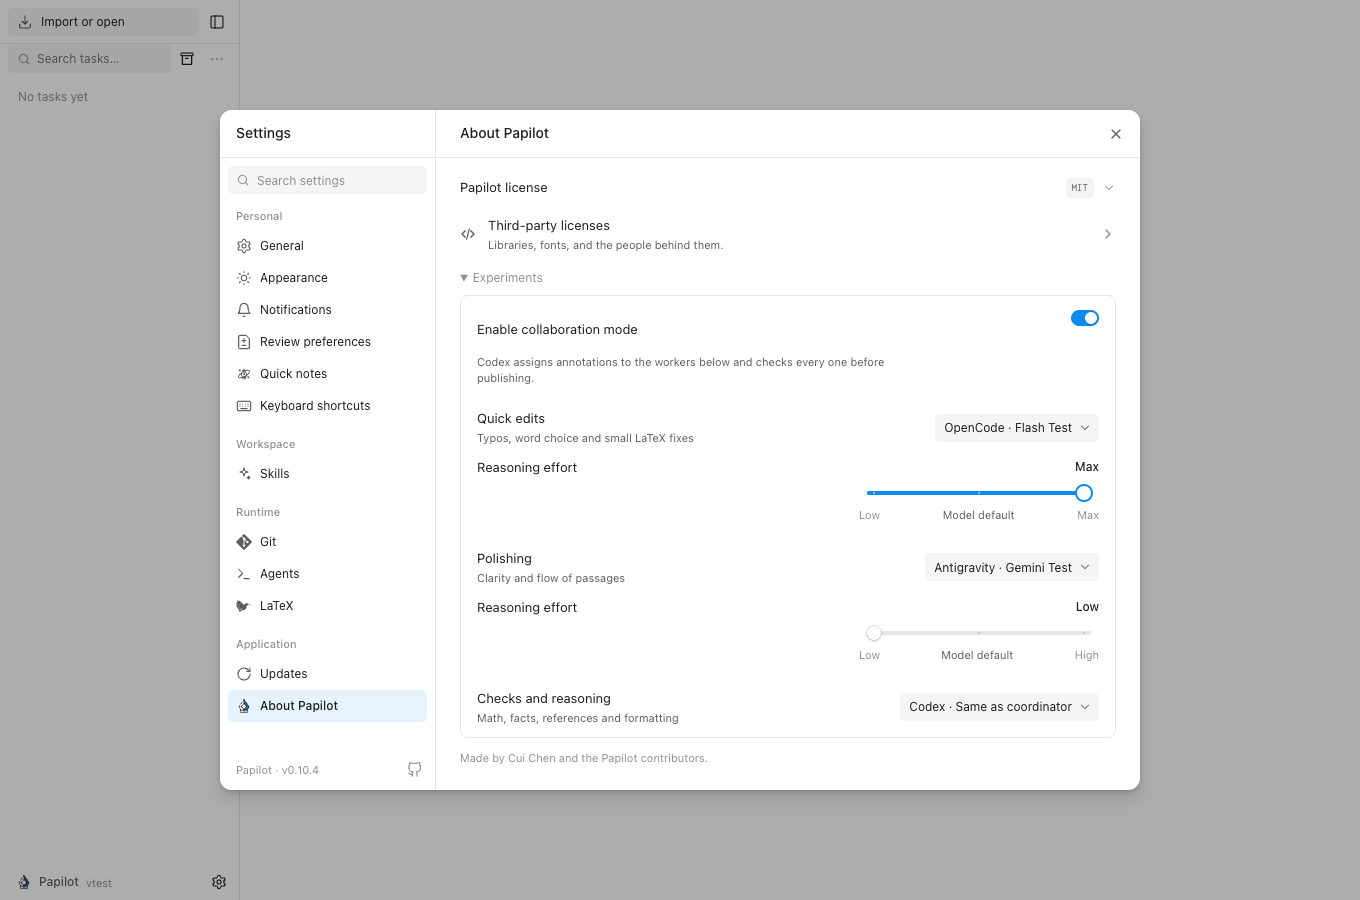
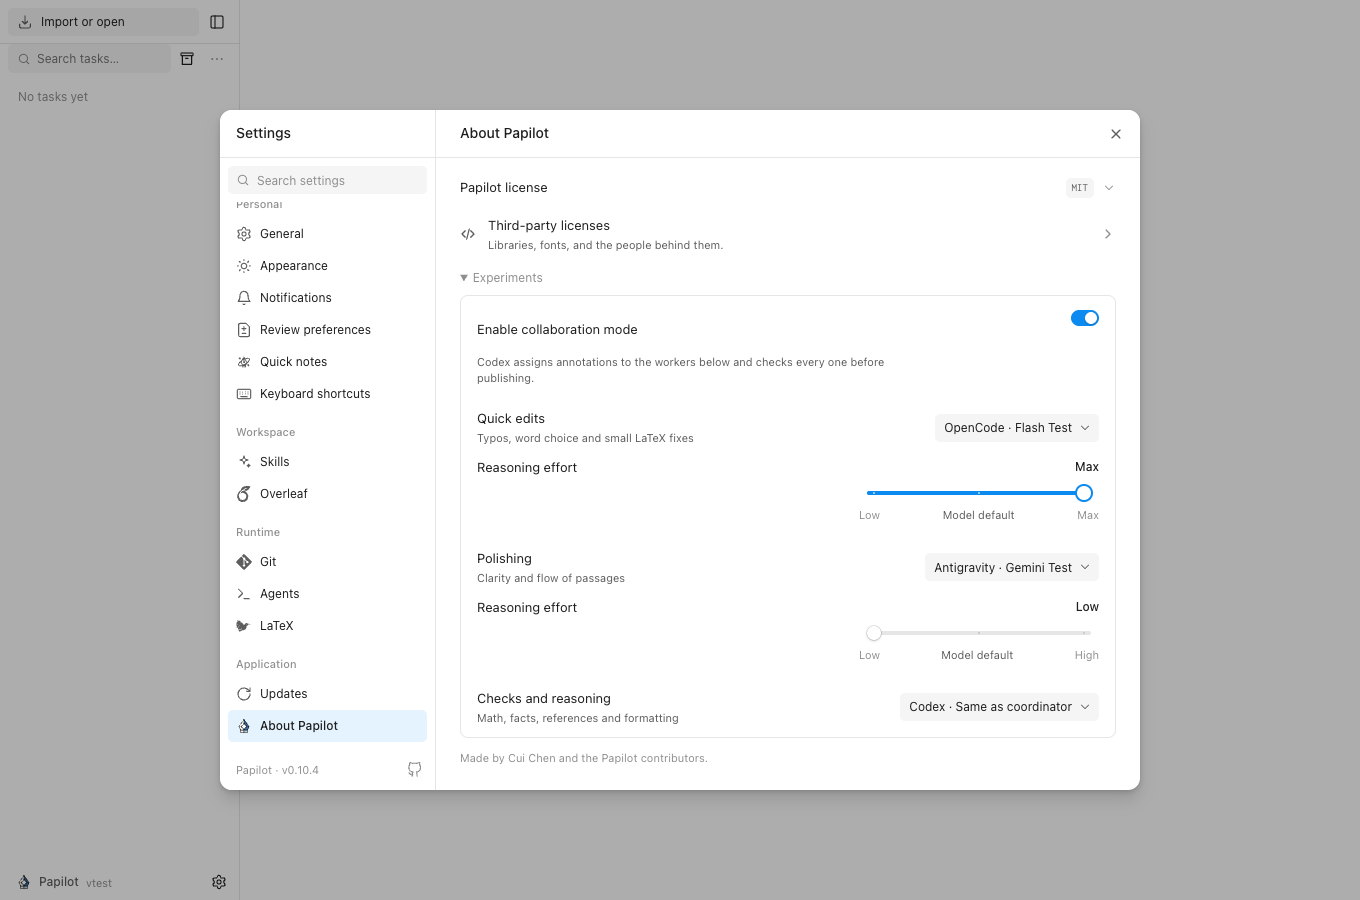
Keep settings headings visible while categories scroll

Changed region(s): [[0.1544, 0.2178, 0.3397, 0.84]]

diff --git a/src/web/settings.css b/src/web/settings.css
@@ -6,13 +6,14 @@
    outside the page flow: 1px rule, 8px corners. */
 .modal.settings-dialog{--settings-gutter:24px;--settings-card-padding:16px;--settings-card-radius:8px;--settings-rule:linear-gradient(var(--line),var(--line)) 1 0 0/1px 0 0/0 var(--settings-gutter);display:grid;grid-template-columns:216px minmax(0,1fr);width:920px;height:min(680px,92dvh);padding:0;border:0;border-radius:var(--r-lg);background:var(--raised);overflow:hidden}
 .settings-dialog>.modal-close{z-index:2;top:10px;right:10px}
-.settings-sidebar{display:flex;flex-direction:column;min-height:0;min-width:0;padding:0 8px 8px;background:var(--raised);border-right:1px solid var(--line);overflow:auto}
+.settings-sidebar{display:flex;flex-direction:column;min-height:0;min-width:0;padding:0 8px 8px;background:var(--raised);border-right:1px solid var(--line);overflow:hidden}
 .settings-sidebar .settings-sidebar-title{display:flex;align-items:center;flex:none;min-height:48px;margin:0 -8px 8px;padding:0 16px;border-bottom:1px solid var(--line);font:500 14px/1.3 var(--sans);letter-spacing:0}
-.settings-search{position:relative;display:block;margin:0 0 8px;color:var(--text-3)}
+.settings-search{position:relative;display:block;flex:none;margin:0 0 8px;color:var(--text-3)}
 .settings-search>svg{position:absolute;left:8px;top:7px;width:14px;height:14px;pointer-events:none}
 .settings-dialog .settings-search input{height:28px;margin:0;padding:0 8px 0 28px;border:1px solid transparent;border-radius:var(--r);background:var(--bg-muted);box-shadow:none;font-size:12px}
 .settings-dialog .settings-search input:hover{border-color:var(--line)}
 .settings-dialog .settings-search input:focus{border-color:var(--accent);background:var(--bg);box-shadow:none}
+.settings-categories{flex:1;min-height:0;overflow:auto;overscroll-behavior:contain}
 .settings-category-group{margin:0 0 8px}
 .settings-category-group h3{display:flex;align-items:center;min-height:28px;margin:0;padding:0 8px;color:var(--text-3);font-size:11px;font-weight:500}
 .settings-category{display:flex;align-items:center;gap:8px;width:100%;min-height:32px;padding:0 8px;border-radius:var(--r);text-align:left;font-size:12px;line-height:1.3;color:var(--text)}
@@ -24,7 +25,7 @@
 .settings-category[aria-current=page]{background:var(--accent-soft);font-weight:500}
 .settings-category[aria-current=page]>svg,.settings-category[aria-current=page]>.brand-icon{color:var(--accent);--brand-color:var(--accent)}
 .settings-search-empty{margin:8px;font-size:12px;color:var(--text-3)}
-.settings-sidebar-bottom{margin-top:auto;padding-top:8px}
+.settings-sidebar-bottom{flex:none;margin-top:auto;padding-top:8px}
 .settings-footer{display:flex;align-items:center;justify-content:space-between;gap:8px;padding:0 0 0 8px;font-size:11px;color:var(--text-3)}
 .settings-footer a{display:inline-flex;align-items:center;justify-content:center;width:24px;height:24px;text-decoration:none;border-radius:var(--r)}
 .settings-footer a:hover{background:var(--bg-muted);color:var(--text)}

diff --git a/CHANGELOG.md b/CHANGELOG.md
@@ -44,7 +44,7 @@ Notable changes to Papilot, newest first. The format follows [Keep a Changelog](
 ### Fixed
 
 - Move keyboard focus into a skill after its details finish rendering, so opening it on a busy device does not leave focus on a hidden list item.
-- Align Overleaf sign-in fields, import switches and sidebar spacing with the workspace controls, including larger touch inputs and consistent labels on phones.
+- Align Overleaf sign-in fields, import switches and sidebar spacing with the workspace controls, including larger touch inputs and consistent labels on phones. Long settings category lists scroll without hiding the heading, search or footer.
 - Keep reasoning sliders visible while focused: the input no longer covers the track, knob and keyboard focus ring. Collaboration role headings use ordinary text spacing and cursors; the enable switch retains its touch target.
 - Keep pdfLaTeX selected when Unicode package or class examples appear only in comments, including comments inside multiline package lists. Escaped percent signs no longer hide active XeLaTeX hints during import or compilation. ([#123](https://github.com/PapilotAI/papilot/pull/123))
 
